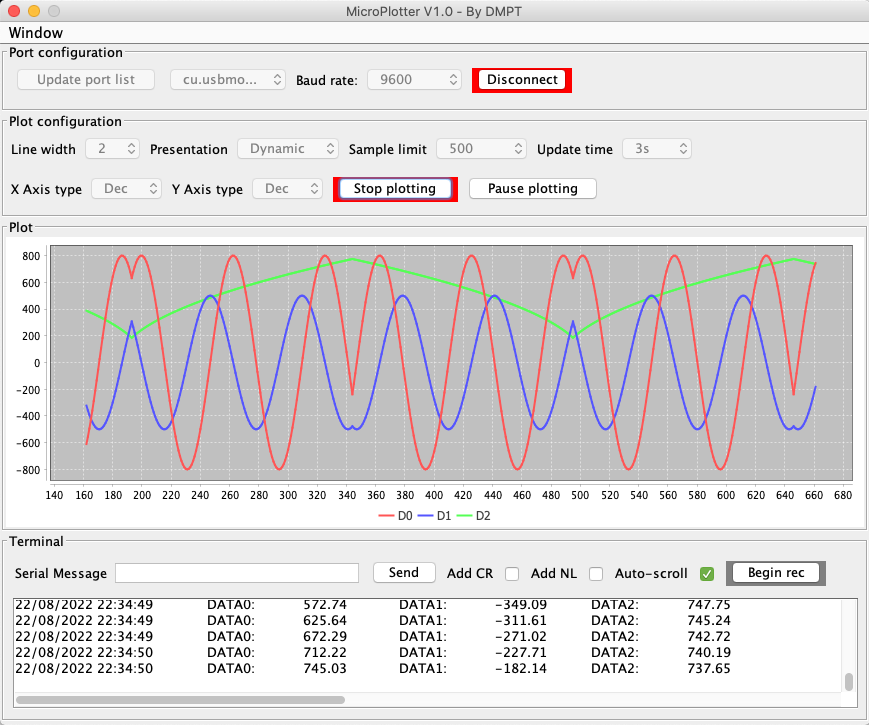
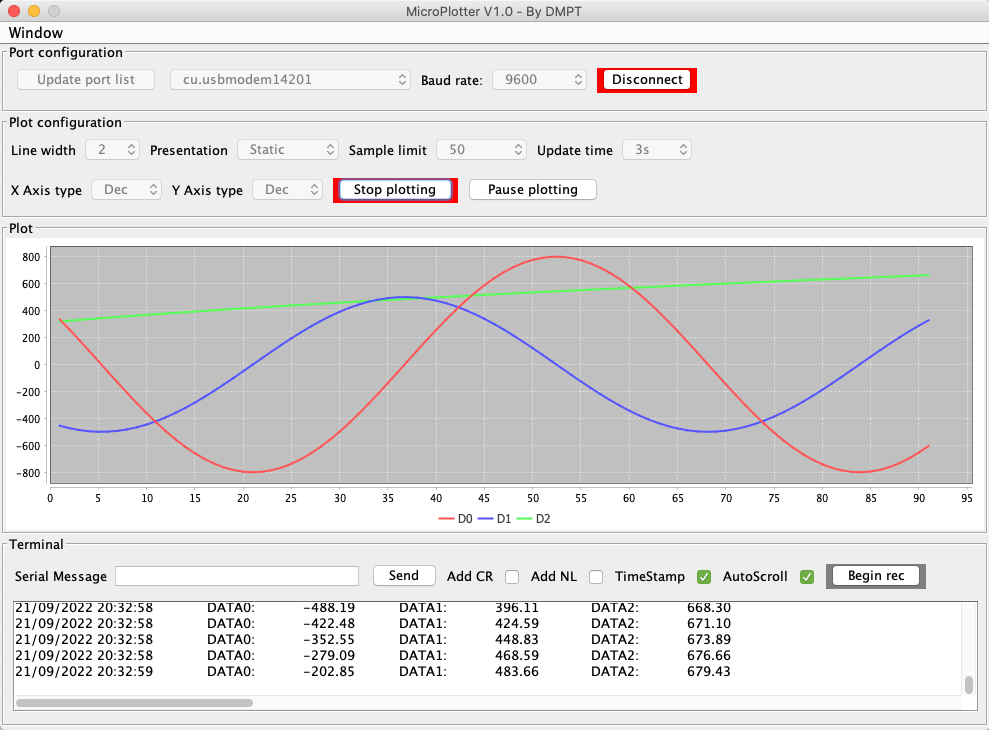
Added timestamp option and size increased

diff --git a/src/microplotterjava/Layout.java b/src/microplotterjava/Layout.java
@@ -71,6 +71,7 @@ public class Layout implements SerialPortDataListener {
     JButton btn_send;
     JCheckBox chk_addCR;
     JCheckBox chk_addNL;
+    JCheckBox chk_tstamp;
     JCheckBox chk_scroll;
     JButton btn_record;
     boolean fileRecording = false;
@@ -366,10 +367,12 @@ public class Layout implements SerialPortDataListener {
         btn_send = new JButton("Send");
         btn_send.setPreferredSize(new Dimension(75, 25));
         btn_send.setEnabled(false);
-        JLabel lbl_scroll = new JLabel("Auto-scroll");
+        JLabel lbl_tstamp = new JLabel("TimeStamp");
+        chk_tstamp = new JCheckBox();
+        chk_tstamp.setSelected(true);
+        JLabel lbl_scroll = new JLabel("AutoScroll");
         chk_scroll = new JCheckBox();
         chk_scroll.setSelected(true);
-        chk_scroll.setEnabled(false);
         // Button for recording incomming data
         btn_record = new JButton("Begin rec");
         btn_record.setPreferredSize(new Dimension(100, 25));
@@ -384,6 +387,8 @@ public class Layout implements SerialPortDataListener {
         term_elements_p1.add(chk_addCR);
         term_elements_p1.add(lbl_addNL);
         term_elements_p1.add(chk_addNL);
+        term_elements_p1.add(lbl_tstamp);
+        term_elements_p1.add(chk_tstamp);
         term_elements_p1.add(lbl_scroll);
         term_elements_p1.add(chk_scroll);
         term_elements_p1.add(btn_record);
@@ -420,7 +425,7 @@ public class Layout implements SerialPortDataListener {
 
         // Connecting to port
         btn_connect.addActionListener((ActionEvent e) -> {
-            connect_port(btn_search, cmb_port, cmb_baud, btn_connect, btn_plot, btn_send, chk_scroll, btn_record, chk_addCR, chk_addNL);
+            connect_port(btn_search, cmb_port, cmb_baud, btn_connect, btn_plot, btn_send, btn_record, chk_addCR, chk_addNL);
         });
 
         // Changing to dynamic plotting
@@ -590,7 +595,7 @@ public class Layout implements SerialPortDataListener {
     // Method to connect to serial device
     public void connect_port(JButton btn_search, JComboBox cmb_port,
             JComboBox cmb_baud, JButton btn_connect,
-            JButton btn_plot, JButton btn_send, JCheckBox chk_scroll,
+            JButton btn_plot, JButton btn_send,
             JButton btn_record, JCheckBox chk_addCR, JCheckBox chk_addNL) {
 
         if ("Connect".equals(btn_connect.getText())) {
@@ -608,7 +613,6 @@ public class Layout implements SerialPortDataListener {
             // Enabling some elements
             btn_plot.setEnabled(true);
             btn_send.setEnabled(true);
-            chk_scroll.setEnabled(true);
             btn_record.setEnabled(true);
             chk_addCR.setEnabled(true);
             chk_addNL.setEnabled(true);
@@ -631,7 +635,6 @@ public class Layout implements SerialPortDataListener {
             // Disabling some elements
             btn_plot.setEnabled(false);
             btn_send.setEnabled(false);
-            chk_scroll.setEnabled(false);
             btn_record.setEnabled(false);
             btn_record.setText("Begin rec");
             btn_record.setBackground(Color.gray);
@@ -655,8 +658,12 @@ public class Layout implements SerialPortDataListener {
     public void update_terminal(String data) {
 
         Date date = new Date();
+        if (chk_tstamp.isSelected()) {
+            txt_terminal.append(formatter.format(date) + "\t" + data + "\r\n");
+        } else{
+            txt_terminal.append(data + "\r\n");
+        }
         
-        txt_terminal.append(formatter.format(date) + "\t" + data + "\r\n");
         if (chk_scroll.isSelected()) {
             txt_terminal.setCaretPosition(txt_terminal.getDocument().getLength());
         }

diff --git a/src/microplotterjava/MicroPlotterJava.java b/src/microplotterjava/MicroPlotterJava.java
@@ -28,6 +28,6 @@ public class MicroPlotterJava {
     }
     
     public static void MicroPlotterJava(){
-        Layout LYT = new Layout(870, 725);
+        Layout LYT = new Layout(990, 730);
     }
 }
